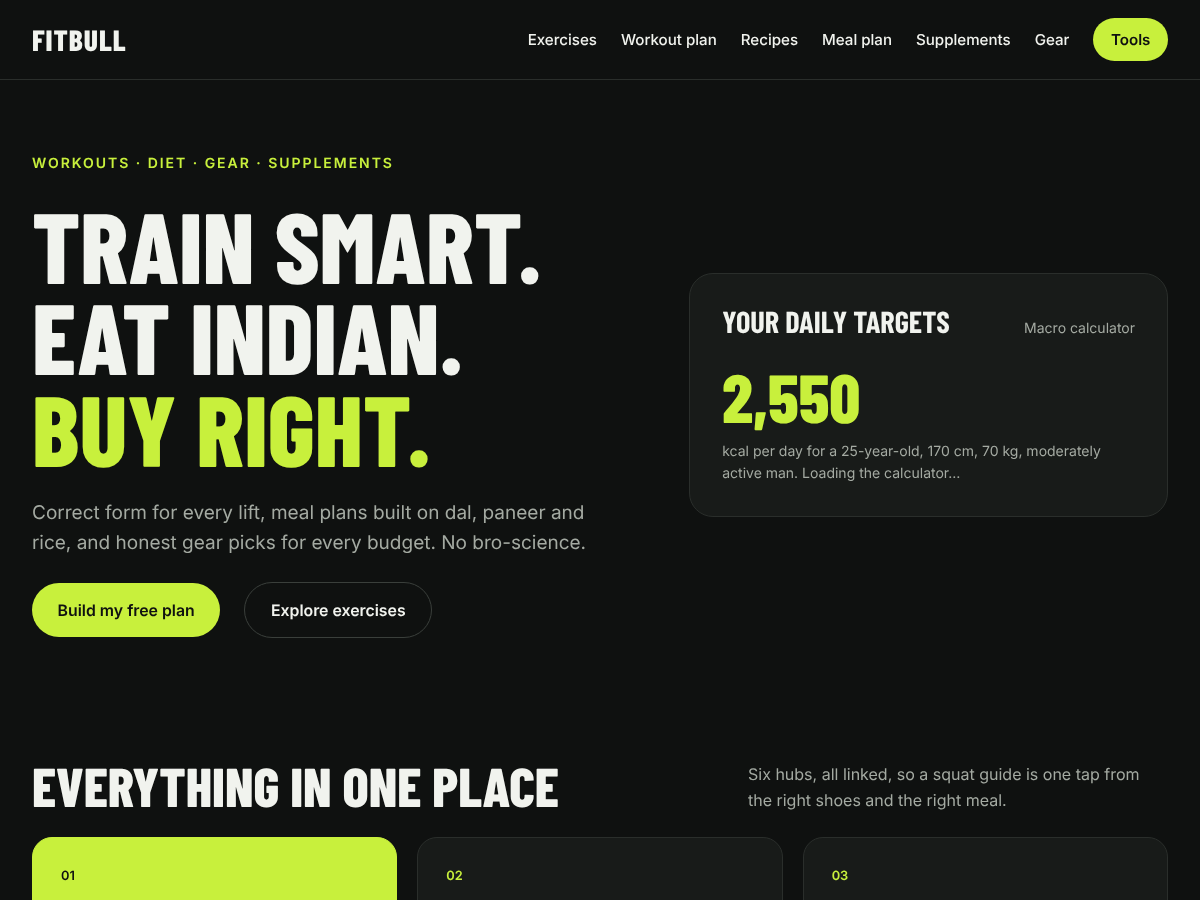
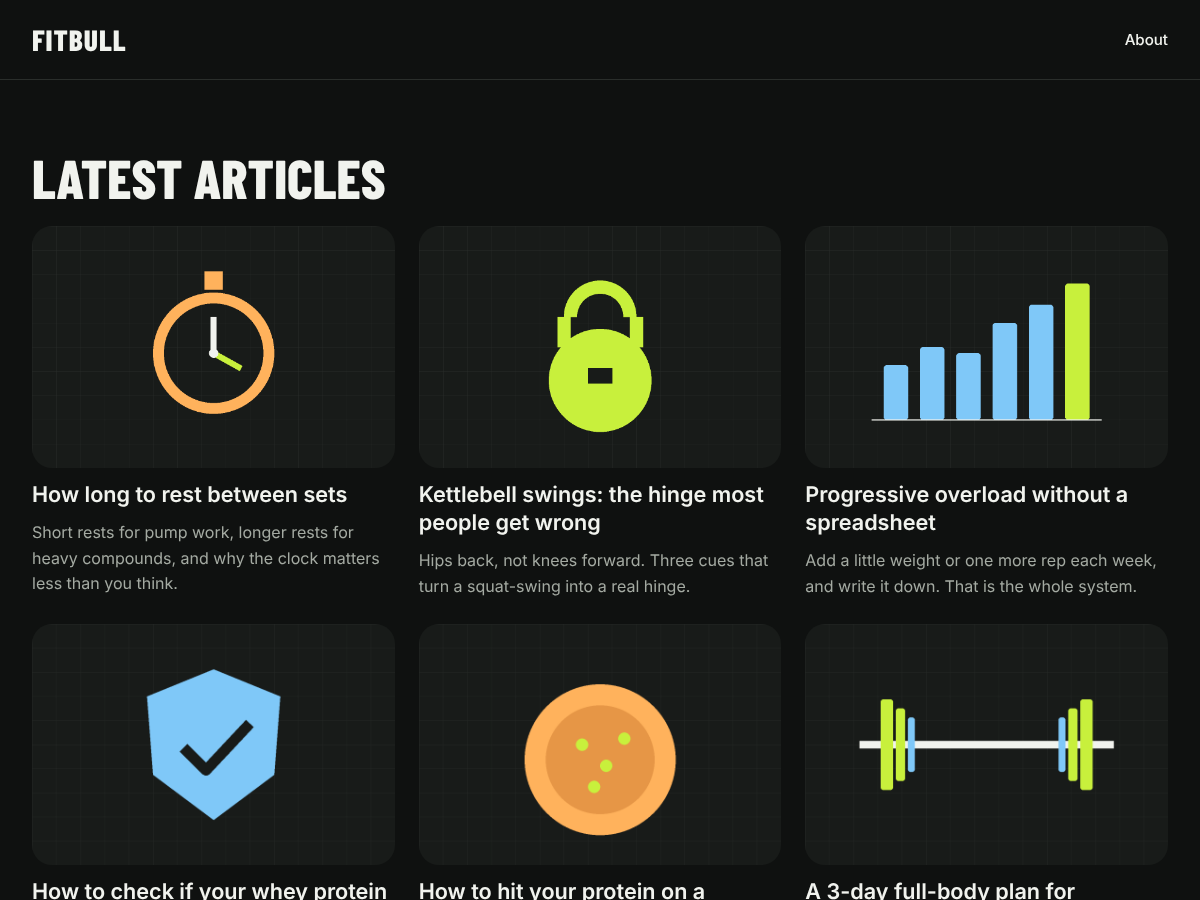
Theme 1.0.4: second review round
Theme review #298692, comment 5.

Required:
- New screenshot.png: the blog index right after activation, without
  the plugin. Featured images in it are original, GPL. readme updated.

Recommended:
- Unregister the cta-band, exercise-finder and hubs patterns on init
  when the plugin's blocks are not available.
- home.html with a level 1 heading (the posts page title, or
  "Latest articles"), via a hidden pattern so it is translatable.
- Left-align the mobile menu overlay when the navigation falls back
  to the Page List.

Claude-Session: https://claude.ai/code/session_01MhZJszNWw4nhXLWg3uhdnj

diff --git a/themes/fitbull/templates/home.html b/themes/fitbull/templates/home.html
@@ -1,0 +1,32 @@
+<!-- wp:template-part {"slug":"header","area":"header","tagName":"header"} /-->
+
+<!-- wp:group {"tagName":"main","style":{"spacing":{"padding":{"top":"var:preset|spacing|50","bottom":"var:preset|spacing|60"}}},"layout":{"type":"constrained","contentSize":"1280px"}} -->
+<main class="wp-block-group" style="padding-top:var(--wp--preset--spacing--50);padding-bottom:var(--wp--preset--spacing--60)">
+<!-- wp:pattern {"slug":"fitbull/home-heading"} /-->
+<!-- wp:query {"queryId":2,"query":{"perPage":12,"pages":0,"offset":0,"postType":"post","order":"desc","orderBy":"date","inherit":true}} -->
+<div class="wp-block-query">
+<!-- wp:post-template {"layout":{"type":"grid","columnCount":3,"minimumColumnWidth":"300px"}} -->
+<!-- wp:group {"className":"fb-post-card","layout":{"type":"flex","orientation":"vertical"},"style":{"spacing":{"blockGap":"0.75rem"}}} -->
+<div class="wp-block-group fb-post-card">
+<!-- wp:post-featured-image {"isLink":true} /-->
+<!-- wp:post-title {"level":2,"isLink":true} /-->
+<!-- wp:post-excerpt {"excerptLength":24,"textColor":"muted"} /-->
+</div>
+<!-- /wp:group -->
+<!-- /wp:post-template -->
+<!-- wp:query-pagination {"layout":{"type":"flex","justifyContent":"space-between"}} -->
+<!-- wp:query-pagination-previous /-->
+<!-- wp:query-pagination-numbers /-->
+<!-- wp:query-pagination-next /-->
+<!-- /wp:query-pagination -->
+<!-- wp:query-no-results -->
+<!-- wp:paragraph {"textColor":"muted"} -->
+<p class="has-muted-color has-text-color">Nothing here yet.</p>
+<!-- /wp:paragraph -->
+<!-- /wp:query-no-results -->
+</div>
+<!-- /wp:query -->
+</main>
+<!-- /wp:group -->
+
+<!-- wp:template-part {"slug":"footer","area":"footer","tagName":"footer"} /-->

diff --git a/themes/fitbull/assets/css/theme.css b/themes/fitbull/assets/css/theme.css
@@ -187,7 +187,8 @@ p.is-style-eyebrow {
 	align-items: flex-start !important;
 }
 
-.wp-block-navigation__responsive-container.is-menu-open .wp-block-navigation__container {
+.wp-block-navigation__responsive-container.is-menu-open .wp-block-navigation__container,
+.wp-block-navigation__responsive-container.is-menu-open .wp-block-page-list {
 	align-items: flex-start !important;
 	gap: 1.1rem;
 	width: 100%;

diff --git a/themes/fitbull/style.css b/themes/fitbull/style.css
@@ -7,7 +7,7 @@ Description: A dark, athletic block theme for fitness sites: bold condensed head
 Requires at least: 6.6
 Tested up to: 7.1
 Requires PHP: 8.0
-Version: 1.0.3
+Version: 1.0.4
 License: GNU General Public License v2 or later
 License URI: https://www.gnu.org/licenses/gpl-2.0.html
 Text Domain: fitbull

diff --git a/themes/fitbull/functions.php b/themes/fitbull/functions.php
@@ -60,3 +60,21 @@ function fitbull_block_styles() {
 	);
 }
 add_action( 'init', 'fitbull_block_styles' );
+
+/**
+ * These patterns are built on ArponSamanta Fitness Toolkit's blocks and
+ * print nothing without it, so hide them from the inserter when the plugin
+ * is not active. Runs after the theme's pattern files are registered.
+ */
+function fitbull_unregister_plugin_patterns() {
+	if ( class_exists( 'Fitbull\\Core\\Blocks' ) ) {
+		return;
+	}
+	$registry = WP_Block_Patterns_Registry::get_instance();
+	foreach ( array( 'fitbull/cta-band', 'fitbull/exercise-finder', 'fitbull/hubs' ) as $pattern ) {
+		if ( $registry->is_registered( $pattern ) ) {
+			unregister_block_pattern( $pattern );
+		}
+	}
+}
+add_action( 'init', 'fitbull_unregister_plugin_patterns', 20 );

diff --git a/themes/fitbull/patterns/home-heading.php b/themes/fitbull/patterns/home-heading.php
@@ -1,0 +1,16 @@
+<?php
+/**
+ * Title: Blog home heading
+ * Slug: fitbull/home-heading
+ * Inserter: no
+ * Description: The level 1 heading of the blog index: the posts page's title, or "Latest articles" when the front page lists the posts.
+ *
+ * @package Fitbull
+ */
+
+$fitbull_posts_page = (int) get_option( 'page_for_posts' );
+$fitbull_heading    = $fitbull_posts_page ? get_the_title( $fitbull_posts_page ) : __( 'Latest articles', 'fitbull' );
+?>
+<!-- wp:heading {"level":1,"style":{"typography":{"fontSize":"var:preset|font-size|xx-large"}}} -->
+<h1 class="wp-block-heading" style="font-size:var(--wp--preset--font-size--xx-large)"><?php echo esc_html( $fitbull_heading ); ?></h1>
+<!-- /wp:heading -->
